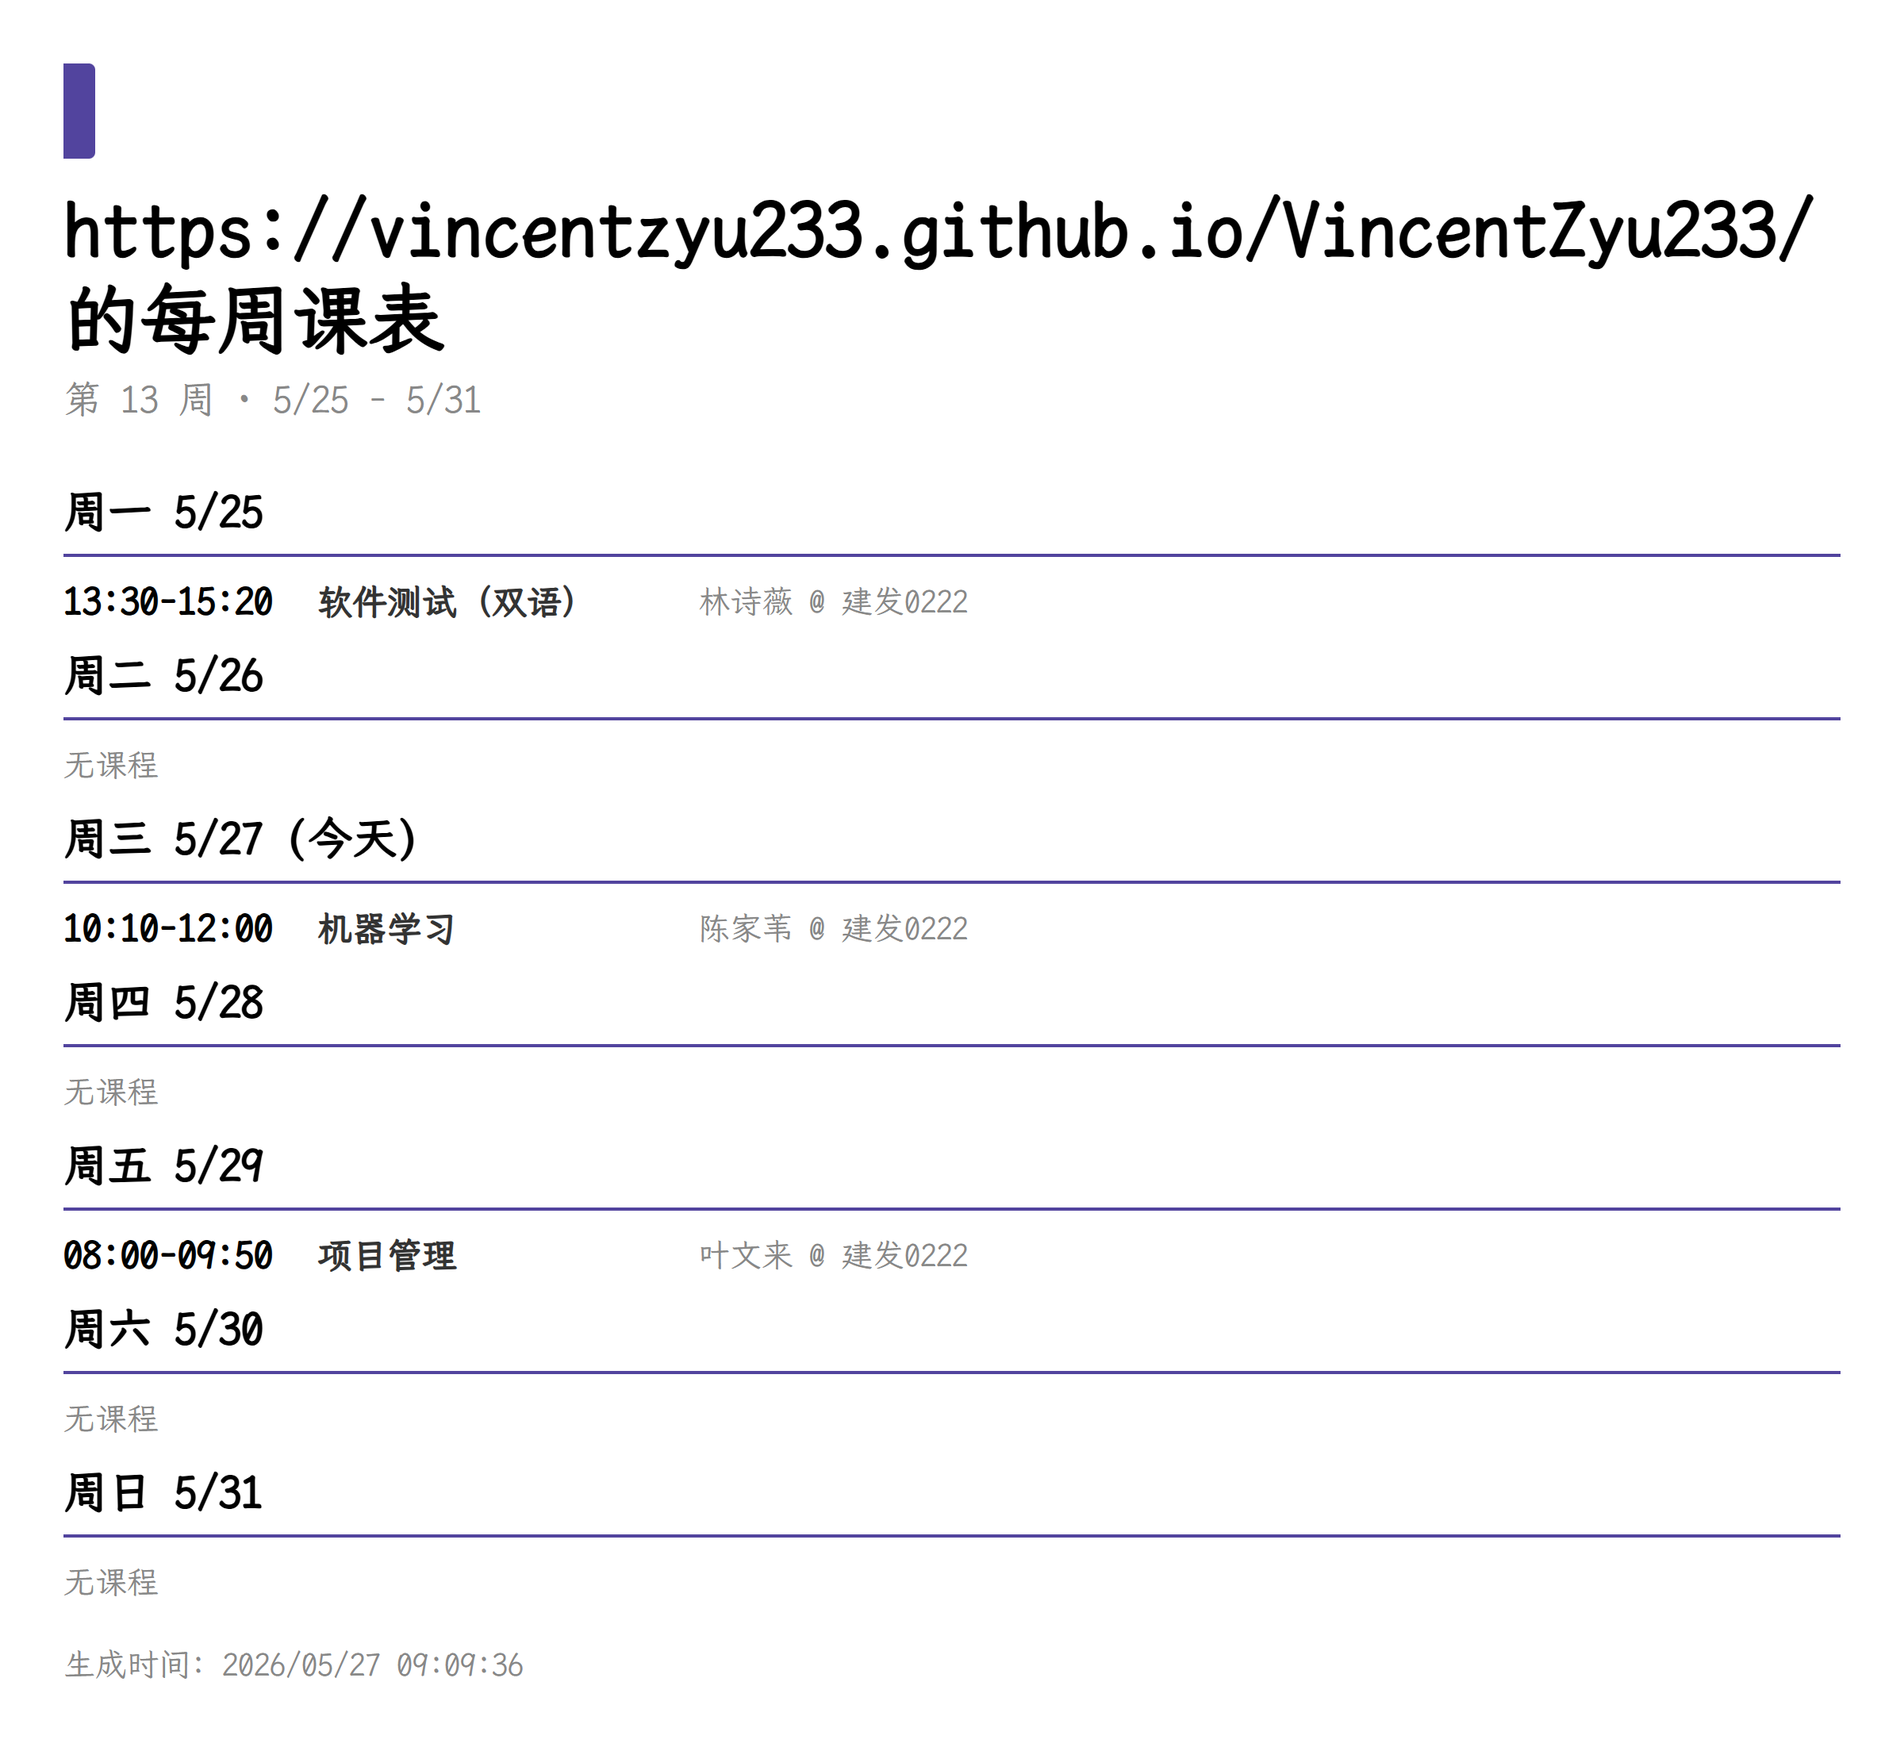
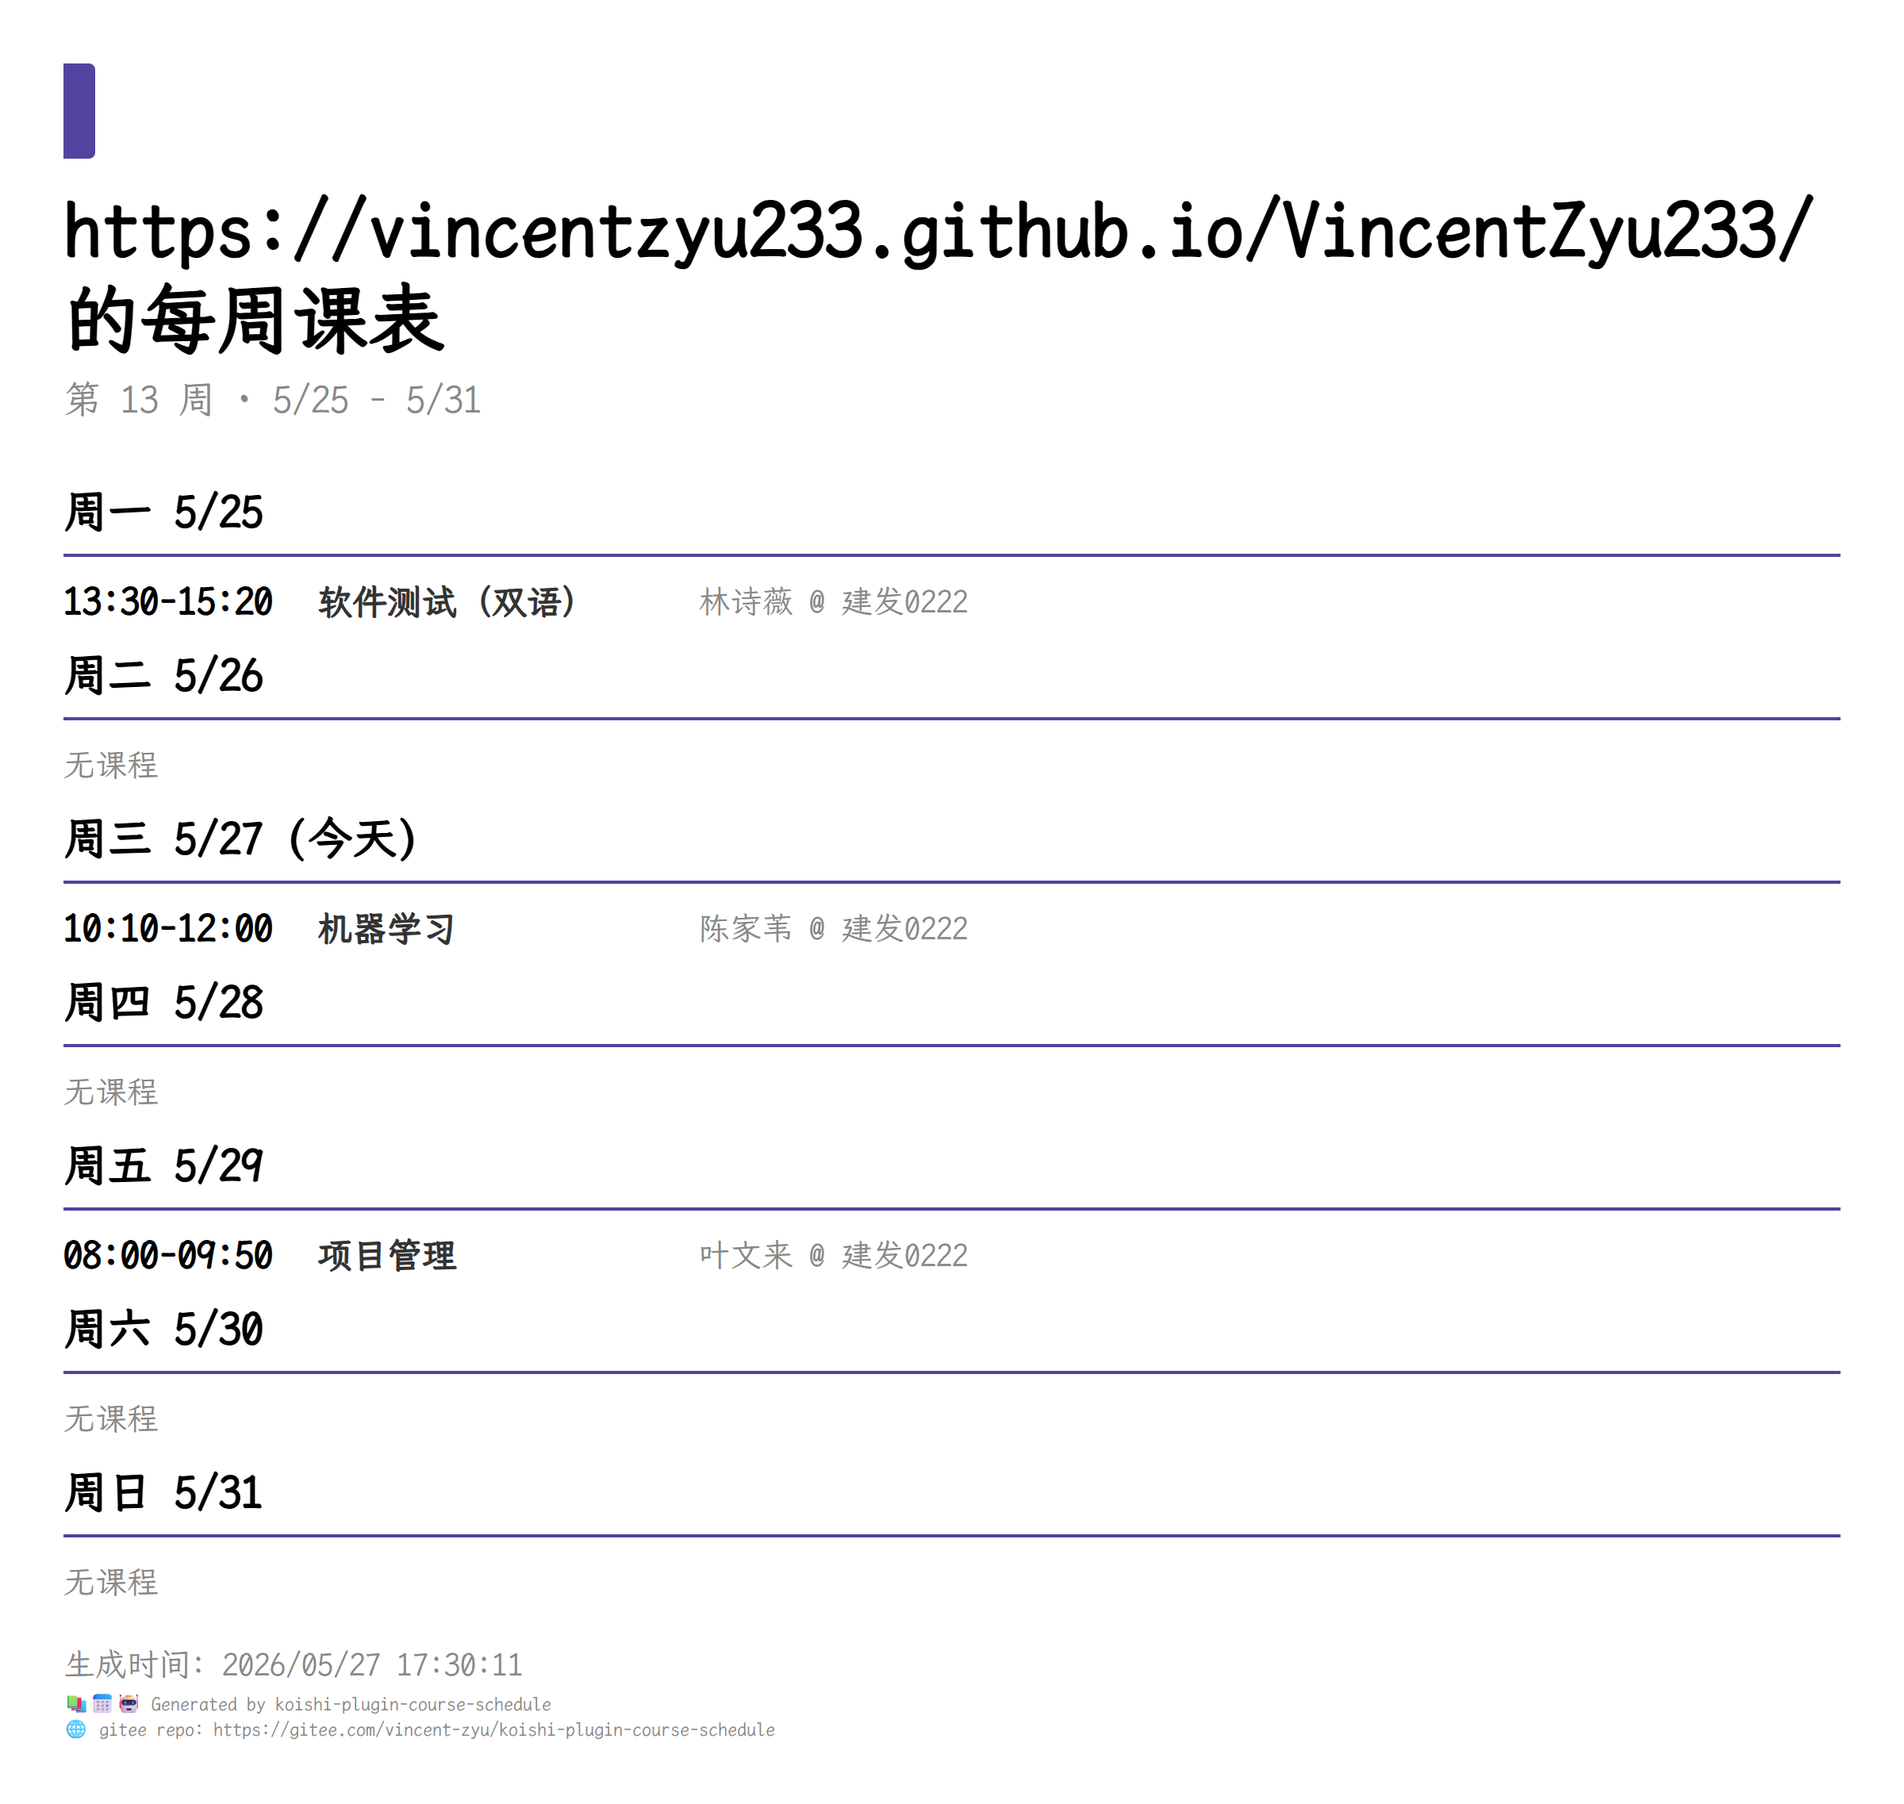
feat: 新增 renderFooterText 自定义图片底部文字，重构时间戳提取逻辑
- 新增 renderFooterText 配置项（默认含 gitee 仓库链接），显示在所有渲染图片底部

- src/render/image-generator.ts：提取 getTimestamp() 私有方法，footerText 贯穿 4 个渲染方法（个人课表/群课表/排行/周课表）

- src/render/template.ts：新增 renderFooter() 公用辅助函数，生成统一底部 HTML+CSS；所有模板函数新增 footerText/timestamp 参数

- src/render/weekly-template.ts：updateTime 重命名为 timestamp，新增 footerText 支持

- src/config.ts：Config 接口 + Schema 新增 renderFooterText

- src/services/index.ts：ImageGenerator 构造函数传入 config.renderFooterText

- 更新 4 张预览截图（反映底部文字加入后的视觉效果）

- 版本号升至 0.2.4-beta.1+20260527

diff --git a/src/render/template.ts b/src/render/template.ts
@@ -9,6 +9,13 @@ function esc(v: string) {
 
 function ff(name: string) { return name ? `'${name}',` : '' }
 
+function renderFooter(footerText: string, timestamp: string): string {
+  const parts: string[] = []
+  if (timestamp) parts.push(`<div class="ft">生成时间: ${esc(timestamp)}</div>`)
+  if (footerText) parts.push(`<div class="ff">${esc(footerText)}</div>`)
+  return parts.length ? `<div class="fw">${parts.join('\n')}</div>` : ''
+}
+
 function makeStatus(colors: RenderColors) {
   return {
     ongoing: { label: '进行中', bg: colors.statusOngoingColor, fg: '#FFFFFF' },
@@ -18,7 +25,7 @@ function makeStatus(colors: RenderColors) {
   }
 }
 
-export function renderGroupScheduleTemplate(items: DayCourseView[], title: string, fontName = '', colors: RenderColors = defaultColors, logFn?: (...args: unknown[]) => void) {
+export function renderGroupScheduleTemplate(items: DayCourseView[], title: string, fontName = '', colors: RenderColors = defaultColors, logFn?: (...args: unknown[]) => void, footerText = '', timestamp = '') {
   const S = makeStatus(colors)
   if (logFn) logFn('[template] 群课表模板渲染: 共', items.length, '个 item')
   const rows = items.map((item, idx) => {
@@ -41,12 +48,12 @@ export function renderGroupScheduleTemplate(items: DayCourseView[], title: strin
       </div>
     </div>`
   }).join('')
-
+  const footerHtml = renderFooter(footerText, timestamp)
   return `<!doctype html>
 <html><head><meta charset="utf-8"><style>
 *{margin:0;padding:0;box-sizing:border-box}
 body{width:1200px;background:#FFF;font-family:${ff(fontName)}"Microsoft YaHei","PingFang SC",sans-serif;overflow:hidden}
-.w{width:1200px;position:relative;min-height:${40 + 120 + items.length * 120 + 80}px}
+.w{width:1200px;position:relative;min-height:${40 + 120 + items.length * 120 + 80 + (footerHtml ? 50 : 0)}px}
 .ac{position:absolute;left:40px;top:40px;width:20px;height:60px;background:${colors.primaryColor};border-radius:0 4px 4px 0}
 .tl{position:absolute;left:80px;top:40px;font-size:48px;font-weight:700;color:#000;white-space:nowrap}
 .ul{position:absolute;left:80px;top:110px;width:300px;height:5px;background:#E0E0E0;border-radius:3px}
@@ -59,16 +66,20 @@ body{width:1200px;background:#FFF;font-family:${ff(fontName)}"Microsoft YaHei","
 .bd{font-size:24px;font-weight:700;padding:2px 10px;white-space:nowrap;border-radius:3px}
 .su{font-size:24px;color:#333;white-space:nowrap;overflow:hidden;text-overflow:ellipsis;max-width:950px}
 .ti{font-size:24px;color:#888;white-space:nowrap}
+.fw{position:absolute;left:40px;bottom:20px;color:#888}
+.ft{font-size:20px}
+.ff{margin-top:4px;font-size:12px;white-space:pre-line}
 </style></head><body>
 <div class="w">
   <div class="ac"></div>
   <div class="tl">${esc(title)}</div>
   <div class="ul"></div>
   ${rows || '<div style="position:absolute;left:40px;top:160px;font-size:28px;color:#888">暂无课程</div>'}
+  ${footerHtml}
 </div></body></html>`
 }
 
-export function renderPersonalScheduleTemplate(items: DayCourseView[], title: string, footer: string, fontName = '', colors: RenderColors = defaultColors) {
+export function renderPersonalScheduleTemplate(items: DayCourseView[], title: string, timestamp: string, fontName = '', colors: RenderColors = defaultColors, footerText = '') {
   const cards = items.map(item => {
     const lines = [item.courseName, item.location].filter(Boolean)
     const extra = [item.startTime && item.endTime ? `${item.startTime}-${item.endTime}` : '', item.statusDetail].filter(Boolean).join(' ')
@@ -79,7 +90,7 @@ export function renderPersonalScheduleTemplate(items: DayCourseView[], title: st
       ${extra ? `<div class="cl cm">${esc(extra)}</div>` : ''}
     </div>`
   }).join('')
-
+  const footerHtml = renderFooter(footerText, timestamp)
   return `<!doctype html>
 <html><head><meta charset="utf-8"><style>
 *{margin:0;padding:0;box-sizing:border-box}
@@ -89,15 +100,17 @@ body{width:1000px;background:#FFF;font-family:${ff(fontName)}"Microsoft YaHei","
 .ct{font-size:28px;font-weight:700;color:#000;margin-bottom:8px}
 .cl{font-size:22px;color:#333;margin-bottom:4px}
 .cl.cm{color:#888}
-.ft{margin-top:15px;font-size:22px;color:#888}
+.fw{margin-top:15px;color:#888}
+.ft{font-size:22px}
+.ff{margin-top:4px;font-size:14px;white-space:pre-line}
 </style></head><body>
 <div class="ht">${esc(title)}</div>
 ${cards || '<div class="cd"><div class="cl">暂无课程</div></div>'}
-<div class="ft">生成时间: ${esc(footer)}</div>
+${footerHtml}
 </body></html>`
 }
 
-export function renderRankingTemplate(items: RankingItem[], dateRange: string, fontName = '') {
+export function renderRankingTemplate(items: RankingItem[], dateRange: string, fontName = '', footerText = '', timestamp = '') {
   const rows = items.map((item, i) => {
     const r = i + 1
     const c = r === 1 ? '#FBBF24' : r === 2 ? '#9CA3AF' : r === 3 ? '#F59E0B' : '#374151'
@@ -111,7 +124,7 @@ export function renderRankingTemplate(items: RankingItem[], dateRange: string, f
       <div class="rs"><div class="rd">${h}h ${m}m</div><div class="rc">${item.courseCount} 节</div></div>
     </div>`
   }).join('')
-
+  const footerHtml = renderFooter(footerText, timestamp)
   return `<!doctype html>
 <html><head><meta charset="utf-8"><style>
 *{margin:0;padding:0;box-sizing:border-box}
@@ -126,9 +139,13 @@ body{width:1200px;background:#FFF;font-family:${ff(fontName)}"Microsoft YaHei","
 .rs{text-align:right;margin-right:20px}
 .rd{font-size:28px;color:#374151;font-weight:600}
 .rc{font-size:24px;color:#6B7280;margin-top:4px}
+.fw{margin-top:20px;color:#888}
+.ft{font-size:20px}
+.ff{margin-top:4px;font-size:12px;white-space:pre-line}
 </style></head><body>
 <div class="rt">本周上课排行榜</div>
 <div class="rsb">${esc(dateRange)}</div>
 ${rows || '<div style="font-size:28px;color:#888;margin-top:20px">本周暂无排行数据</div>'}
+${footerHtml}
 </body></html>`
 }

diff --git a/src/render/image-generator.ts b/src/render/image-generator.ts
@@ -19,6 +19,7 @@ export class ImageGenerator {
   private fontBuffer: Buffer | null = null
   private verbose = false
   private colors: RenderColors
+  private footerText = ''
 
   constructor(
     private ctx: Context,
@@ -26,10 +27,12 @@ export class ImageGenerator {
     private waitUntil: 'load' | 'domcontentloaded' | 'networkidle0' | 'networkidle2' = 'load',
     verbose = false,
     colors?: RenderColors,
+    footerText = '',
   ) {
     this.fontPath = fontPath
     this.verbose = verbose
     this.colors = colors ?? defaultColors
+    this.footerText = footerText
     if (!fontPath) return
     try {
       if (!fs.existsSync(fontPath)) {
@@ -47,29 +50,34 @@ export class ImageGenerator {
   async renderPersonalSchedule(items: DayCourseView[], targetDate: Date) {
     this.log('[render] 个人课表, 课程数=', items.length)
     const title = `我的课表 · ${targetDate.toLocaleDateString('zh-CN')}`
-    const now = new Date()
-    const footer = `${now.getFullYear()}/${String(now.getMonth() + 1).padStart(2, '0')}/${String(now.getDate()).padStart(2, '0')} ${String(now.getHours()).padStart(2, '0')}:${String(now.getMinutes()).padStart(2, '0')}:${String(now.getSeconds()).padStart(2, '0')}`
-    return this.renderHtml(renderPersonalScheduleTemplate(items, title, footer, this.fontName, this.colors), '个人课表')
+    const timestamp = this.getTimestamp()
+    return this.renderHtml(renderPersonalScheduleTemplate(items, title, timestamp, this.fontName, this.colors, this.footerText), '个人课表')
   }
 
   async renderGroupSchedule(items: DayCourseView[], targetDate: Date) {
     this.log('[render] 群课表, 用户数=', items.length)
     const logFn = this.verbose ? (...args: unknown[]) => this.log('[render][verbose]', ...args) : undefined
-    const html = renderGroupScheduleTemplate(items, '群友在上什么课?', this.fontName, this.colors, logFn)
+    const timestamp = this.getTimestamp()
+    const html = renderGroupScheduleTemplate(items, '群友在上什么课?', this.fontName, this.colors, logFn, this.footerText, timestamp)
     this.log('[render] 群课表HTML已生成, length=', html.length)
     return this.renderHtml(html, '群课表')
   }
 
   async renderRanking(items: RankingItem[], dateRange: string) {
     this.log('[render] 排行, 人数=', items.length)
-    return this.renderHtml(renderRankingTemplate(items, dateRange, this.fontName), '排行')
+    const timestamp = this.getTimestamp()
+    return this.renderHtml(renderRankingTemplate(items, dateRange, this.fontName, this.footerText, timestamp), '排行')
   }
 
   async renderWeeklySchedule(nickname: string, week: number, dateRange: string, days: WeeklyDayView[]) {
     this.log('[render] 周课表, 周数=', week, '天数=', days.length)
+    const timestamp = this.getTimestamp()
+    return this.renderHtml(renderWeeklyScheduleTemplate(nickname, week, dateRange, days, timestamp, this.fontName, this.colors, this.footerText), '周课表')
+  }
+
+  private getTimestamp(): string {
     const now = new Date()
-    const updateTime = `${now.getFullYear()}/${String(now.getMonth() + 1).padStart(2, '0')}/${String(now.getDate()).padStart(2, '0')} ${String(now.getHours()).padStart(2, '0')}:${String(now.getMinutes()).padStart(2, '0')}:${String(now.getSeconds()).padStart(2, '0')}`
-    return this.renderHtml(renderWeeklyScheduleTemplate(nickname, week, dateRange, days, updateTime, this.fontName, this.colors), '周课表')
+    return `${now.getFullYear()}/${String(now.getMonth() + 1).padStart(2, '0')}/${String(now.getDate()).padStart(2, '0')} ${String(now.getHours()).padStart(2, '0')}:${String(now.getMinutes()).padStart(2, '0')}:${String(now.getSeconds()).padStart(2, '0')}`
   }
 
   private log(...args: unknown[]) {

diff --git a/src/render/weekly-template.ts b/src/render/weekly-template.ts
@@ -13,9 +13,10 @@ export function renderWeeklyScheduleTemplate(
   week: number,
   dateRange: string,
   days: WeeklyDayView[],
-  updateTime: string,
+  timestamp: string,
   fontName = '',
   colors: RenderColors = defaultColors,
+  footerText = '',
 ) {
   const dayBlocks = days.map((day) => {
     const holidayTag = day.isHoliday ? ` [${esc(day.holidayName)}]` : day.isWorkdayOnWeekend ? ` [${esc(day.holidayName)}]` : ''
@@ -34,6 +35,11 @@ export function renderWeeklyScheduleTemplate(
     return `<div class="db">${dayHeader}${courseItems || noCourses}</div>`
   }).join('')
 
+  const parts: string[] = []
+  if (timestamp) parts.push(`<div class="ft">生成时间: ${esc(timestamp)}</div>`)
+  if (footerText) parts.push(`<div class="ff">${esc(footerText)}</div>`)
+  const footerHtml = parts.length ? `<div class="fw">${parts.join('\n')}</div>` : ''
+
   return `<!doctype html>
 <html><head><meta charset="utf-8"><style>
 *{margin:0;padding:0;box-sizing:border-box}
@@ -48,12 +54,14 @@ body{width:1200px;background:#FFF;font-family:${ff(fontName)}"Microsoft YaHei","
 .cn{flex:0 0 240px;font-size:22px;font-weight:600;color:#333}
 .cf{flex:1;font-size:20px;color:#888;overflow:hidden;text-overflow:ellipsis;white-space:nowrap}
 .nc{padding:8px 0;font-size:20px;color:#888}
-.ft{margin-top:20px;font-size:20px;color:#888}
+.fw{margin-top:20px;color:#888}
+.ft{font-size:20px}
+.ff{margin-top:4px;font-size:12px;white-space:pre-line}
 </style></head><body>
 <div class="ac"></div>
 <div class="ht">${esc(nickname)} 的每周课表</div>
 <div class="sb">第 ${week} 周 · ${esc(dateRange)}</div>
 ${dayBlocks}
-<div class="ft">生成时间: ${esc(updateTime)}</div>
+${footerHtml}
 </body></html>`
 }

diff --git a/src/config.ts b/src/config.ts
@@ -42,6 +42,7 @@ export interface Config {
   // 🖼 渲染设置
   renderWaitUntil: 'load' | 'domcontentloaded' | 'networkidle0' | 'networkidle2'
   textFontPath: string
+  renderFooterText: string
 
   // 📁 文件设置
   icsTempDir: string
@@ -83,6 +84,7 @@ export const Config: Schema<Config> = Schema.intersect([
       Schema.const('networkidle2').description('【networkidle2】等待网络基本空闲，介于 load 与 networkidle0 之间'),
     ]).default('load').description('🖼 Puppeteer setContent 的 waitUntil 策略'),
     textFontPath: Schema.string().default('').role('textarea', { rows: [2, 5] }).description('🔤 文字字体文件路径（绝对路径，留空则使用系统默认字体）'),
+    renderFooterText: Schema.string().default('📚📅🤖 Generated by koishi-plugin-course-schedule\n🌐 gitee repo: https://gitee.com/vincent-zyu/koishi-plugin-course-schedule').role('textarea', { rows: [3, 10] }).description('📝 图片底部文字（支持换行，留空则不显示）'),
   }).description('🖼 渲染设置'),
 
   // 📁 文件设置

diff --git a/src/services/index.ts b/src/services/index.ts
@@ -9,7 +9,7 @@ import { HolidayService } from './holiday'
 export function createCourseScheduleServices(ctx: Context, config: Config) {
   const dataManager = new DataManager(ctx)
   const icsParser = new ICSParser()
-  const imageGenerator = new ImageGenerator(ctx, config.textFontPath, config.renderWaitUntil, config.verboseConsoleLog, config.renderColors)
+  const imageGenerator = new ImageGenerator(ctx, config.textFontPath, config.renderWaitUntil, config.verboseConsoleLog, config.renderColors, config.renderFooterText)
   const logFn = (...args: unknown[]) => {
     if (config.verboseConsoleLog) ctx.logger.info('[course-schedule]', ...args)
   }
